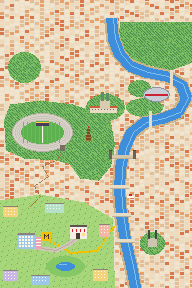
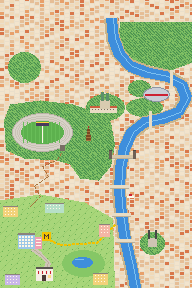
Prague map: the salon in the corner of the estate
The salon moves to the bottom-left corner of the estate, by the pond and
just below home, with its two pins round it: V salonu above, Před
salonem by the door. The pond and the metro line make room.

Claude-Session: https://claude.ai/code/session_01VNRPapRapxGDERJvDFS1Be

Changed region(s): [[0.1562, 0.7812, 0.5625, 1.0], [0.0, 0.9375, 0.125, 1.0], [0.5625, 0.7812, 0.5938, 0.8125]]

diff --git a/docs/v2/world.js b/docs/v2/world.js
@@ -96,7 +96,7 @@ window.WORLD = {
           shoot: { need: 16, every: 1.5, stay: 3.4, sway: 2, target: 'zámek',                 // padlocks on the window, the frames, the shelves, the lamp, the TV and the cabinet
             spots: [[62, 76], [116, 92], [140, 96], [130, 58], [172, 58], [166, 92], [118, 36], [168, 134], [150, 162], [174, 162]] },
           talk: [['', 'Doma je divné ticho. Někdo tu chybí…'], ['', 'A někdo vás zamkl! Na dveřích, na skříních, všude visí zámky.'], ['hero', 'Ty zámky sestřelím!']] },
-        { id: 'praha-street', name: 'Ulice', at: [56, 250], label: 'below', bg: 'praha-street', scroll: true, play: 'run',
+        { id: 'praha-street', name: 'Ulice', at: [52, 250], label: 'right', bg: 'praha-street', scroll: true, play: 'run',
           run: { seconds: 40, low: 'holub', high: '', art: { low: ['prague', 'pigeon'], alt: ['prague', 'puddle'] } },
           talk: [['', 'Venku na chodníku leží hřeben a kousek dál sponka do vlasů. Stopa vede ulicí!'], ['', 'Přeskoč holuby i louže.']] },
       ],
@@ -108,12 +108,12 @@ window.WORLD = {
       saves: [{ id: 'leila', name: 'Mamka' }],           // Leila on the character sheet; in the game she is Mamka
       look: { sky: '#8FD3F4', far: '#F2C078', far2: '#E7A6B5', ground: '#A39B96', line: '#7A6F6A' },
       scenes: [
-        { id: 'praha-door', name: 'Před salonem', at: [72, 240], label: 'right', bg: 'praha-door', play: 'memory',
+        { id: 'praha-door', name: 'Před salonem', at: [62, 284], label: 'right', bg: 'praha-door', play: 'memory',
           memory: { pairs: 8, miss: 10, key: true, won: 'A pod poslední dvojicí byl klíč. Dveře jsou odemčené!',
             faces: [['salonkit', 'scissors'], ['salonkit', 'comb'], ['salonkit', 'brush'], ['salonkit', 'dryer'], ['salonkit', 'spray'], ['salonkit', 'dye'], ['salonkit', 'curlers'], ['salonkit', 'mirror']] },
           talk: [['', 'Kadeřnictví je zamčené. Na dveřích visí cedulka: Klíč dostane, kdo najde všechny dvojice.'], ['', 'Na lavičce před dveřmi leží kartičky. Samé kadeřnické věci.'], ['hero', 'Pexeso! Jeden otočí první kartičku, druhý k ní hledá dvojici.']] },
         // From here on she is found: the salon is full and she cannot get away until every customer is done.
-        { id: 'praha-salon', name: 'V salonu', at: [84, 226], label: 'right', bg: 'praha-salon', play: 'salon', cast: ['leila'],
+        { id: 'praha-salon', name: 'V salonu', at: [44, 262], label: 'right', bg: 'praha-salon', play: 'salon', cast: ['leila'],
           salon: {
             seconds: 180, need: 7, patience: 36, every: [11, 15],
             stations: [{ k: 'wash', x: 30, y: 184 }, { k: 'cut', x: 70, y: 184 }, { k: 'dye', x: 110, y: 184 }, { k: 'dry', x: 150, y: 184 }, { k: 'pay', x: 120, y: 262 }],

diff --git a/docs/v3/world.js b/docs/v3/world.js
@@ -96,7 +96,7 @@ window.WORLD = {
           shoot: { need: 16, every: 1.5, stay: 3.4, sway: 2, target: 'zámek',                 // padlocks on the window, the frames, the shelves, the lamp, the TV and the cabinet
             spots: [[62, 76], [116, 92], [140, 96], [130, 58], [172, 58], [166, 92], [118, 36], [168, 134], [150, 162], [174, 162]] },
           talk: [['', 'Doma je divné ticho. Někdo tu chybí…'], ['', 'A někdo vás zamkl! Na dveřích, na skříních, všude visí zámky.'], ['hero', 'Ty zámky sestřelím!']] },
-        { id: 'praha-street', name: 'Ulice', at: [56, 250], label: 'below', bg: 'praha-street', scroll: true, play: 'run',
+        { id: 'praha-street', name: 'Ulice', at: [52, 250], label: 'right', bg: 'praha-street', scroll: true, play: 'run',
           run: { seconds: 40, low: 'holub', high: '', art: { low: ['prague', 'pigeon'], alt: ['prague', 'puddle'] } },
           talk: [['', 'Venku na chodníku leží hřeben a kousek dál sponka do vlasů. Stopa vede ulicí!'], ['', 'Přeskoč holuby i louže.']] },
       ],
@@ -108,12 +108,12 @@ window.WORLD = {
       saves: [{ id: 'leila', name: 'Mamka' }],           // Leila on the character sheet; in the game she is Mamka
       look: { sky: '#8FD3F4', far: '#F2C078', far2: '#E7A6B5', ground: '#A39B96', line: '#7A6F6A' },
       scenes: [
-        { id: 'praha-door', name: 'Před salonem', at: [72, 240], label: 'right', bg: 'praha-door', play: 'memory',
+        { id: 'praha-door', name: 'Před salonem', at: [62, 284], label: 'right', bg: 'praha-door', play: 'memory',
           memory: { pairs: 8, miss: 10, key: true, won: 'A pod poslední dvojicí byl klíč. Dveře jsou odemčené!',
             faces: [['salonkit', 'scissors'], ['salonkit', 'comb'], ['salonkit', 'brush'], ['salonkit', 'dryer'], ['salonkit', 'spray'], ['salonkit', 'dye'], ['salonkit', 'curlers'], ['salonkit', 'mirror']] },
           talk: [['', 'Kadeřnictví je zamčené. Na dveřích visí cedulka: Klíč dostane, kdo najde všechny dvojice.'], ['', 'Na lavičce před dveřmi leží kartičky. Samé kadeřnické věci.'], ['hero', 'Pexeso! Jeden otočí první kartičku, druhý k ní hledá dvojici.']] },
         // From here on she is found: the salon is full and she cannot get away until every customer is done.
-        { id: 'praha-salon', name: 'V salonu', at: [84, 226], label: 'right', bg: 'praha-salon', play: 'salon', cast: ['leila'],
+        { id: 'praha-salon', name: 'V salonu', at: [44, 262], label: 'right', bg: 'praha-salon', play: 'salon', cast: ['leila'],
           salon: {
             seconds: 180, need: 7, patience: 36, every: [11, 15],
             stations: [{ k: 'wash', x: 30, y: 184 }, { k: 'cut', x: 70, y: 184 }, { k: 'dye', x: 110, y: 184 }, { k: 'dry', x: 150, y: 184 }, { k: 'pay', x: 120, y: 262 }],

diff --git a/game/world.js b/game/world.js
@@ -96,7 +96,7 @@ window.WORLD = {
           shoot: { need: 16, every: 1.5, stay: 3.4, sway: 2, target: 'zámek',                 // padlocks on the window, the frames, the shelves, the lamp, the TV and the cabinet
             spots: [[62, 76], [116, 92], [140, 96], [130, 58], [172, 58], [166, 92], [118, 36], [168, 134], [150, 162], [174, 162]] },
           talk: [['', 'Doma je divné ticho. Někdo tu chybí…'], ['', 'A někdo vás zamkl! Na dveřích, na skříních, všude visí zámky.'], ['hero', 'Ty zámky sestřelím!']] },
-        { id: 'praha-street', name: 'Ulice', at: [56, 250], label: 'below', bg: 'praha-street', scroll: true, play: 'run',
+        { id: 'praha-street', name: 'Ulice', at: [52, 250], label: 'right', bg: 'praha-street', scroll: true, play: 'run',
           run: { seconds: 40, low: 'holub', high: '', art: { low: ['prague', 'pigeon'], alt: ['prague', 'puddle'] } },
           talk: [['', 'Venku na chodníku leží hřeben a kousek dál sponka do vlasů. Stopa vede ulicí!'], ['', 'Přeskoč holuby i louže.']] },
       ],
@@ -108,12 +108,12 @@ window.WORLD = {
       saves: [{ id: 'leila', name: 'Mamka' }],           // Leila on the character sheet; in the game she is Mamka
       look: { sky: '#8FD3F4', far: '#F2C078', far2: '#E7A6B5', ground: '#A39B96', line: '#7A6F6A' },
       scenes: [
-        { id: 'praha-door', name: 'Před salonem', at: [72, 240], label: 'right', bg: 'praha-door', play: 'memory',
+        { id: 'praha-door', name: 'Před salonem', at: [62, 284], label: 'right', bg: 'praha-door', play: 'memory',
           memory: { pairs: 8, miss: 10, key: true, won: 'A pod poslední dvojicí byl klíč. Dveře jsou odemčené!',
             faces: [['salonkit', 'scissors'], ['salonkit', 'comb'], ['salonkit', 'brush'], ['salonkit', 'dryer'], ['salonkit', 'spray'], ['salonkit', 'dye'], ['salonkit', 'curlers'], ['salonkit', 'mirror']] },
           talk: [['', 'Kadeřnictví je zamčené. Na dveřích visí cedulka: Klíč dostane, kdo najde všechny dvojice.'], ['', 'Na lavičce před dveřmi leží kartičky. Samé kadeřnické věci.'], ['hero', 'Pexeso! Jeden otočí první kartičku, druhý k ní hledá dvojici.']] },
         // From here on she is found: the salon is full and she cannot get away until every customer is done.
-        { id: 'praha-salon', name: 'V salonu', at: [84, 226], label: 'right', bg: 'praha-salon', play: 'salon', cast: ['leila'],
+        { id: 'praha-salon', name: 'V salonu', at: [44, 262], label: 'right', bg: 'praha-salon', play: 'salon', cast: ['leila'],
           salon: {
             seconds: 180, need: 7, patience: 36, every: [11, 15],
             stations: [{ k: 'wash', x: 30, y: 184 }, { k: 'cut', x: 70, y: 184 }, { k: 'dye', x: 110, y: 184 }, { k: 'dry', x: 150, y: 184 }, { k: 'pay', x: 120, y: 262 }],

diff --git a/docs/v3/index.html b/docs/v3/index.html
@@ -6,7 +6,7 @@
 <meta name="robots" content="noindex">
 <title>Kellyn a Ken · zkušební verze</title>
 <link rel="stylesheet" href="https://fonts.googleapis.com/css2?family=Pixelify+Sans:wght@400;700&display=swap">
-<link rel="stylesheet" href="game.css?v=7f1eeee184">
+<link rel="stylesheet" href="game.css?v=e313bec66e">
 </head>
 <body>
 <div id="stage">
@@ -14,12 +14,12 @@
   <div id="ui"></div>
   <div id="wait" hidden></div>
 </div>
-<script>window.BUILD = '7f1eeee184'; window.INSPECT = true;</script>
-<script src="assets/manifest.js?v=7f1eeee184"></script>
-<script src="assets/sprites.js?v=7f1eeee184"></script>
-<script src="world.js?v=7f1eeee184"></script>
-<script src="room.js?v=7f1eeee184"></script>
-<script src="engine.js?v=7f1eeee184"></script>
-<script src="game.js?v=7f1eeee184"></script>
+<script>window.BUILD = 'e313bec66e'; window.INSPECT = true;</script>
+<script src="assets/manifest.js?v=e313bec66e"></script>
+<script src="assets/sprites.js?v=e313bec66e"></script>
+<script src="world.js?v=e313bec66e"></script>
+<script src="room.js?v=e313bec66e"></script>
+<script src="engine.js?v=e313bec66e"></script>
+<script src="game.js?v=e313bec66e"></script>
 </body>
 </html>

diff --git a/docs/v2/index.html b/docs/v2/index.html
@@ -6,7 +6,7 @@
 <meta name="robots" content="noindex">
 <title>Kellyn a Ken</title>
 <link rel="stylesheet" href="https://fonts.googleapis.com/css2?family=Pixelify+Sans:wght@400;700&display=swap">
-<link rel="stylesheet" href="game.css?v=7f1eeee184">
+<link rel="stylesheet" href="game.css?v=e313bec66e">
 </head>
 <body>
 <div id="stage">
@@ -14,12 +14,12 @@
   <div id="ui"></div>
   <div id="wait" hidden></div>
 </div>
-<script>window.BUILD = '7f1eeee184';</script>
-<script src="assets/manifest.js?v=7f1eeee184"></script>
-<script src="assets/sprites.js?v=7f1eeee184"></script>
-<script src="world.js?v=7f1eeee184"></script>
-<script src="room.js?v=7f1eeee184"></script>
-<script src="engine.js?v=7f1eeee184"></script>
-<script src="game.js?v=7f1eeee184"></script>
+<script>window.BUILD = 'e313bec66e';</script>
+<script src="assets/manifest.js?v=e313bec66e"></script>
+<script src="assets/sprites.js?v=e313bec66e"></script>
+<script src="world.js?v=e313bec66e"></script>
+<script src="room.js?v=e313bec66e"></script>
+<script src="engine.js?v=e313bec66e"></script>
+<script src="game.js?v=e313bec66e"></script>
 </body>
 </html>

diff --git a/tools/maps.py b/tools/maps.py
@@ -195,12 +195,12 @@ def czech():
 VLTAVA = [(136, 292), (131, 266), (125, 240), (121, 214), (119, 190), (120, 168), (124, 148), (131, 132), (144, 122), (162, 118),
           (178, 112), (186, 98), (181, 84), (166, 76), (146, 72), (130, 66), (119, 54), (113, 38), (111, 18)]
 STADIUM = (42, 132, 30, 19)                                                 # Strahov: centre, half width, half height
-HOME, SALON, ARENA, CASTLE, TOWER = (26, 246), (78, 232), (156, 94), (104, 106), (88, 140)
+HOME, SALON, ARENA, CASTLE, TOWER = (26, 246), (44, 274), (156, 94), (104, 106), (88, 140)
 # Home is out on the big housing estate at the south-western edge of the city, far from the river; the salon is a few
 # blocks away. Panel blocks stand on lawns, there is a park with a pond, and metro line B runs from there into town.
 ESTATE = [(0, 200), (40, 194), (84, 202), (112, 218), (114, 288), (0, 288)]
 BLOCKS = [(10, 216, 14, 10, (242, 210, 122)), (54, 212, 18, 9, (183, 224, 200)), (104, 236, 10, 12, (244, 182, 166)),
-          (10, 280, 14, 10, (201, 183, 232)), (40, 284, 18, 9, (156, 199, 232)), (100, 280, 14, 11, (242, 210, 122))]
+          (12, 284, 14, 10, (201, 183, 232)), (100, 284, 14, 11, (242, 210, 122))]
 
 
 def praha():
@@ -224,8 +224,8 @@ def praha():
     for y in range(H):
         for x in range(W):
             if LM[x, y]: px[x, y] = C['park2'] if (x * 7 + y * 13) % 29 == 0 else (168, 214, 122) if (x + y) % 9 else (156, 206, 112)
-    d.ellipse([46, 256, 84, 276], fill=C['park']); d.ellipse([56, 262, 74, 270], fill=C['river']); d.line([(59, 264), (66, 264)], fill=C['river2'])
-    metro = [(46, 238), (70, 252), (96, 250), (116, 222)]
+    d.ellipse([62, 250, 104, 276], fill=C['park']); d.ellipse([72, 257, 92, 267], fill=C['river']); d.line([(75, 259), (83, 259)], fill=C['river2'])
+    metro = [(46, 238), (60, 244), (96, 242), (116, 222)]
     for (a, b), (c, e) in zip(metro, metro[1:]):
         n = int(math.hypot(c - a, e - b))
         for i in range(n):
@@ -238,7 +238,7 @@ def praha():
         for yy in range(by - bh + 2, by - 1, 3):
             for xx in range(bx - bw // 2 + 2, bx + bw // 2 - 1, 3): px[xx, yy] = C['white']
     # The street from home to the salon, and the path out across town and up the hill to Strahov.
-    road = [(HOME[0] + 8, HOME[1] + 1), (56, 250), (68, 244), (SALON[0] - 2, SALON[1] + 6)]
+    road = [(HOME[0] + 6, HOME[1] + 2), (40, 254), (48, 262), (SALON[0] - 2, SALON[1] + 6)]
     d.line(road, fill=C['road'], width=5, joint='curve'); d.line(road, fill=C['stone2'], width=1, joint='curve')
     path = [(30, 206), (40, 196), (34, 186), (48, 176), (42, 166), (56, 160), (62, 152)]
     for (a, b), (c, e) in zip(path, path[1:]):                            # a dotted path up the hill
@@ -382,7 +382,7 @@ def australia():
 # Where the pins go, for game/world.js.
 SPOTS = {
     'czech-map': {'praha': (LENS[0], LENS[1] + 6), 'ostrov': tuple(round(v) for v in cz(12.94, 50.306))},
-    'praha-map': {'doma': (HOME[0] - 4, HOME[1] - 12), 'ulice': (56, 250), 'pred-salonem': (SALON[0] - 6, SALON[1] + 8), 'v-salonu': (SALON[0] + 6, SALON[1] - 6),
+    'praha-map': {'doma': (HOME[0] - 4, HOME[1] - 12), 'ulice': (52, 250), 'pred-salonem': (SALON[0] + 18, SALON[1] + 10), 'v-salonu': (SALON[0], SALON[1] - 12),
                   'do-kopce': (40, 196), 'brana': (STADIUM[0] + STADIUM[2] - 10, STADIUM[1] + STADIUM[3] - 2), 'zkusebna': (STADIUM[0] - STADIUM[2] + 6, STADIUM[1] + 4),
                   'koncert': (STADIUM[0], STADIUM[1] - STADIUM[3] + 12), 'zimni': ARENA},
     'australia-map': {'bondi': (SLENS[0] + 16, SLENS[1] + 18), 'vlna': (SLENS[0] + 32, SLENS[1] + 4), 'bus': tuple(round(v) for v in au(148.5, -27.5)),
